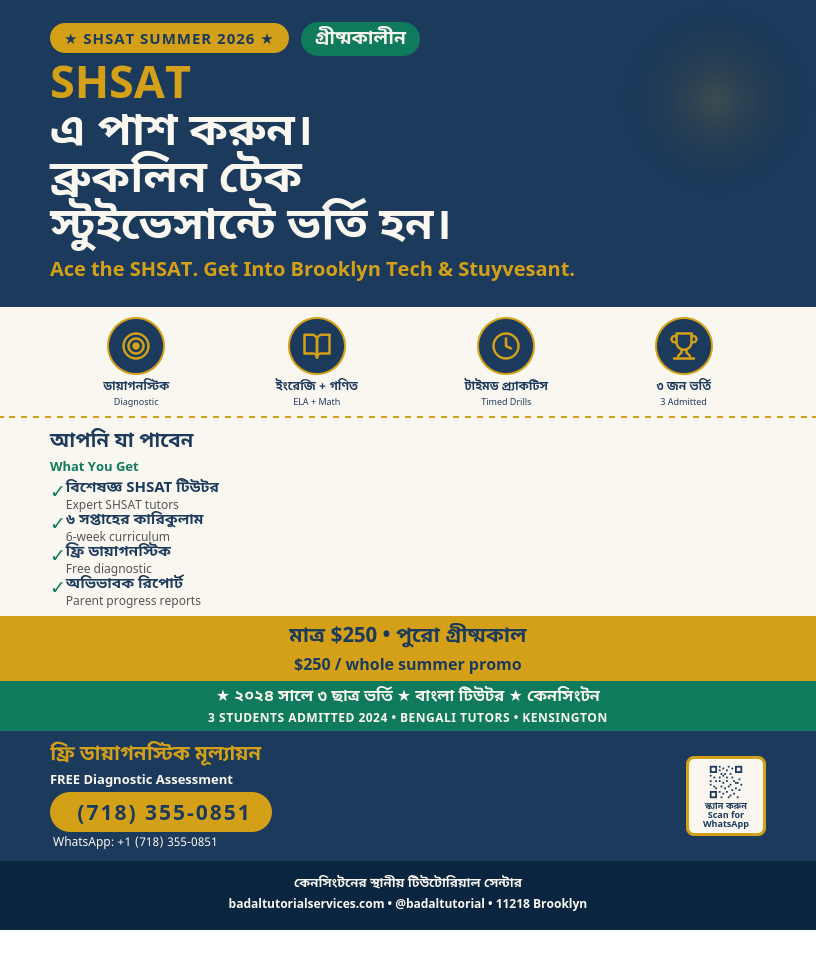
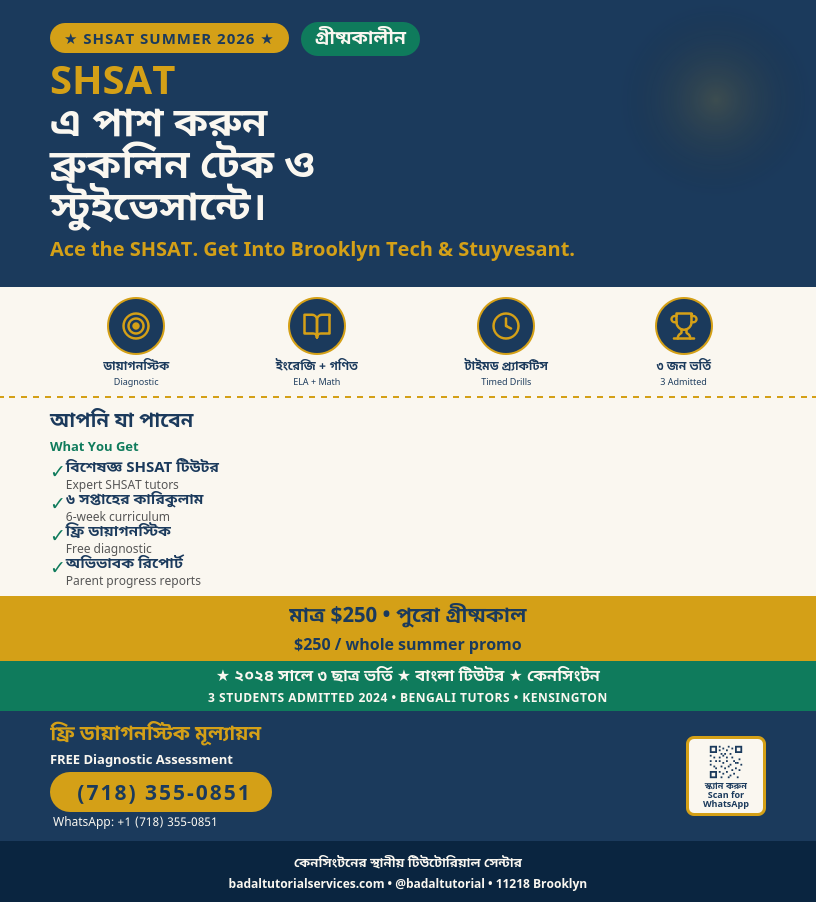
Unify 8.5x9.4in (816x902), flush footer, no breath

diff --git a/flyers/shsat-bn.html b/flyers/shsat-bn.html
@@ -18,7 +18,7 @@
   .hero::before { content: ''; position: absolute; top: 0; right: 0; width: 200px; height: 200px; background: radial-gradient(circle, rgba(212,160,23,0.18) 0%, transparent 70%); }
   .badge { display: inline-block; background: #D4A017; color: #1B3A5C; padding: 4px 14px; border-radius: 18px; font-size: 11pt; font-weight: 700; letter-spacing: 1px; margin-bottom: 10px; font-family: 'BodySans', sans-serif; }
   .badge-bn { display: inline-block; background: #0F7B5C; color: #FAF7F0; padding: 4px 14px; border-radius: 18px; font-size: 14pt; font-weight: 700; margin-left: 8px; font-family: 'BnFont', sans-serif; }
-  .headline-bn { font-family: 'BnFont', 'Noto Sans Bengali', sans-serif; font-size: 34pt; font-weight: 700; line-height: 1.05; color: #FAF7F0; margin-bottom: 6px; }
+  .headline-bn { font-family: "BnFont", "Noto Sans Bengali", sans-serif; font-size: 30pt; font-weight: 700; line-height: 1.05; color: #FAF7F0; margin-bottom: 6px; }
   .headline-bn .accent { color: #D4A017; }
   .headline-en { font-family: 'BodySans', sans-serif; font-size: 15pt; font-weight: 900; line-height: 1.1; color: #D4A017; margin-bottom: 4px; }
 
@@ -56,7 +56,7 @@
   .qr-box svg { width: 36px; height: 36px; }
   .qr-label { font-family: 'BnFont', sans-serif; font-size: 7pt; font-weight: 700; color: #1B3A5C; margin-top: 2px; line-height: 1.1; }
 
-  .footer { background: #0a2540; color: #FAF7F0; padding: 14px 50px 18px; text-align: center; }
+  .footer { background: #0a2540; color: #FAF7F0; padding: 14px 50px 12px; text-align: center; }
   .footer-bn { font-family: 'BnFont', sans-serif; font-size: 10pt; font-weight: 700; margin-bottom: 2px; }
   .footer-en { font-family: 'BodySans', sans-serif; font-size: 9pt; font-weight: 700; }
 </style>
@@ -69,7 +69,7 @@
       <span class="badge">★ SHSAT SUMMER 2026 ★</span>
       <span class="badge-bn">গ্রীষ্মকালীন</span>
     </div>
-    <div class="headline-bn"><span class="accent">SHSAT</span><br>এ পাশ করুন।<br>ব্রুকলিন টেক<br>স্টুইভেসান্টে ভর্তি হন।</div>
+    <div class="headline-bn"><span class="accent">SHSAT</span><br>এ পাশ করুন<br>ব্রুকলিন টেক ও<br>স্টুইভেসান্টে।</div>
     <div class="headline-en">Ace the SHSAT. Get Into Brooklyn Tech & Stuyvesant.</div>
   </div>
 

diff --git a/flyers/README.md b/flyers/README.md
@@ -11,7 +11,7 @@ Bengali-led marketing flyers for Badal Tutorial. 8.5×9.4in print spec.
 ## Render
 
 ```bash
-wkhtmltoimage --width 816 --height 979 --quality 85 \
+wkhtmltoimage --width 816 --height 902 --quality 85 \
   --enable-local-file-access --javascript-delay 500 \
   --no-stop-slow-scripts file://./regents-bn.html ./regents-bn.png
 ```
